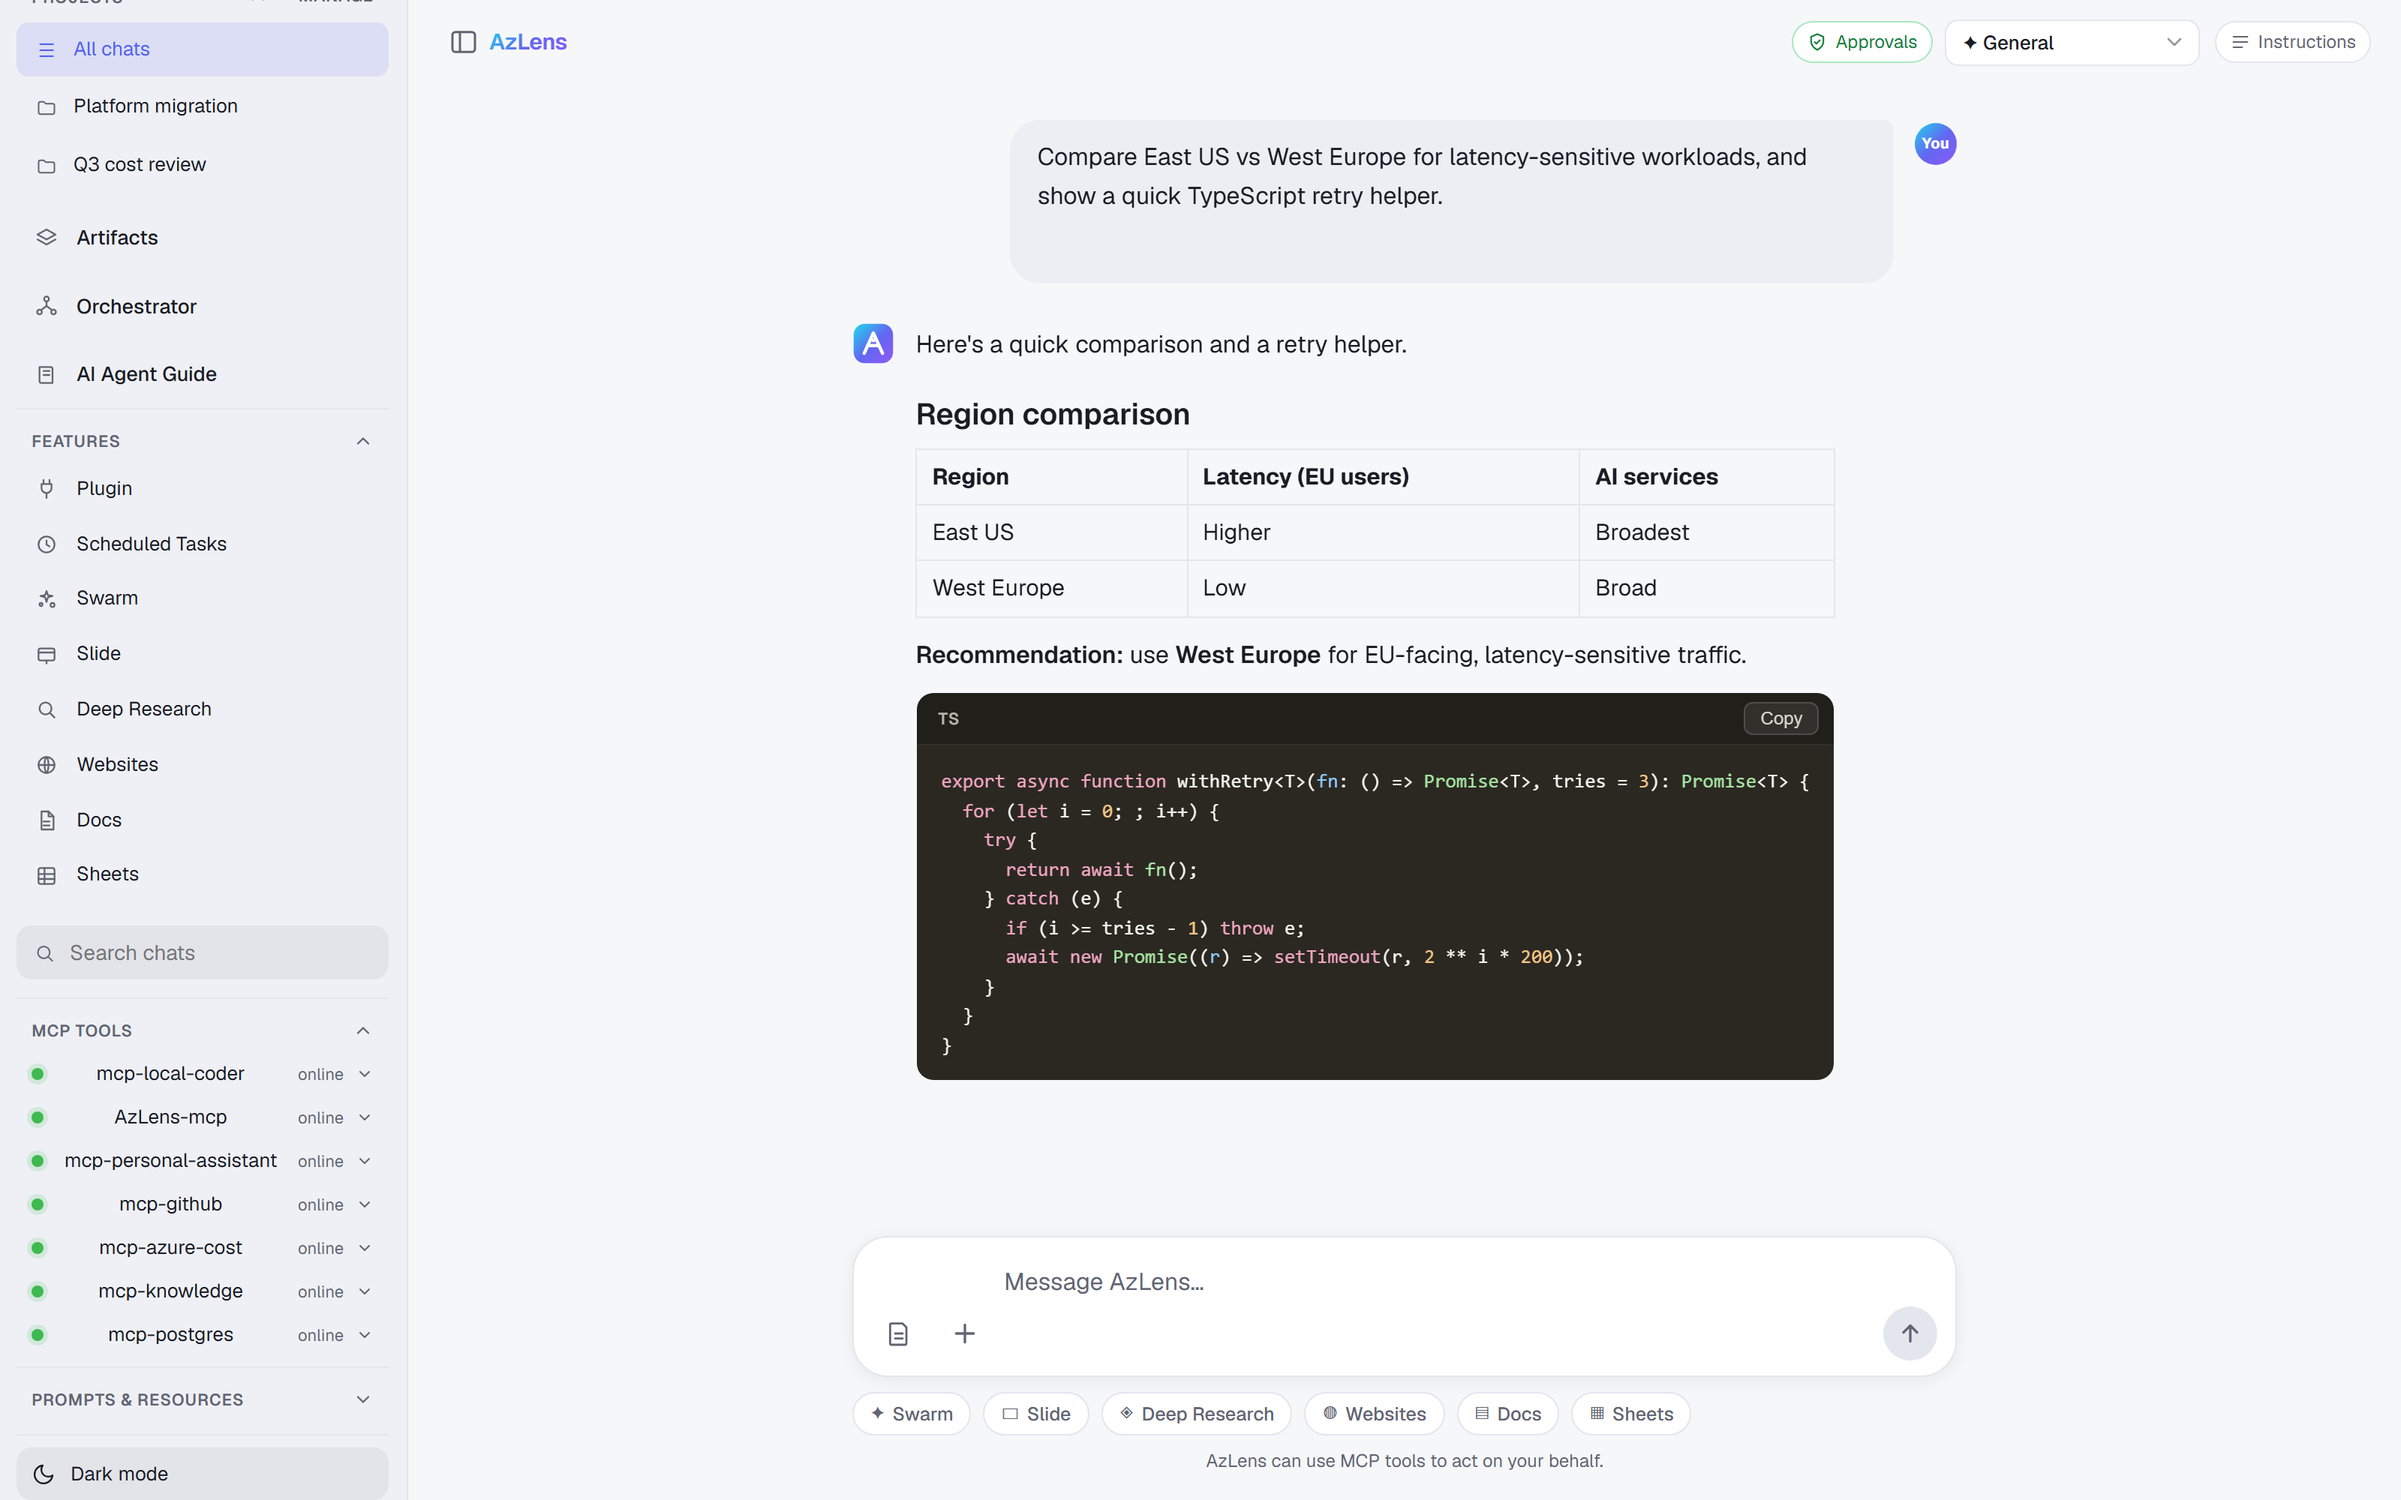
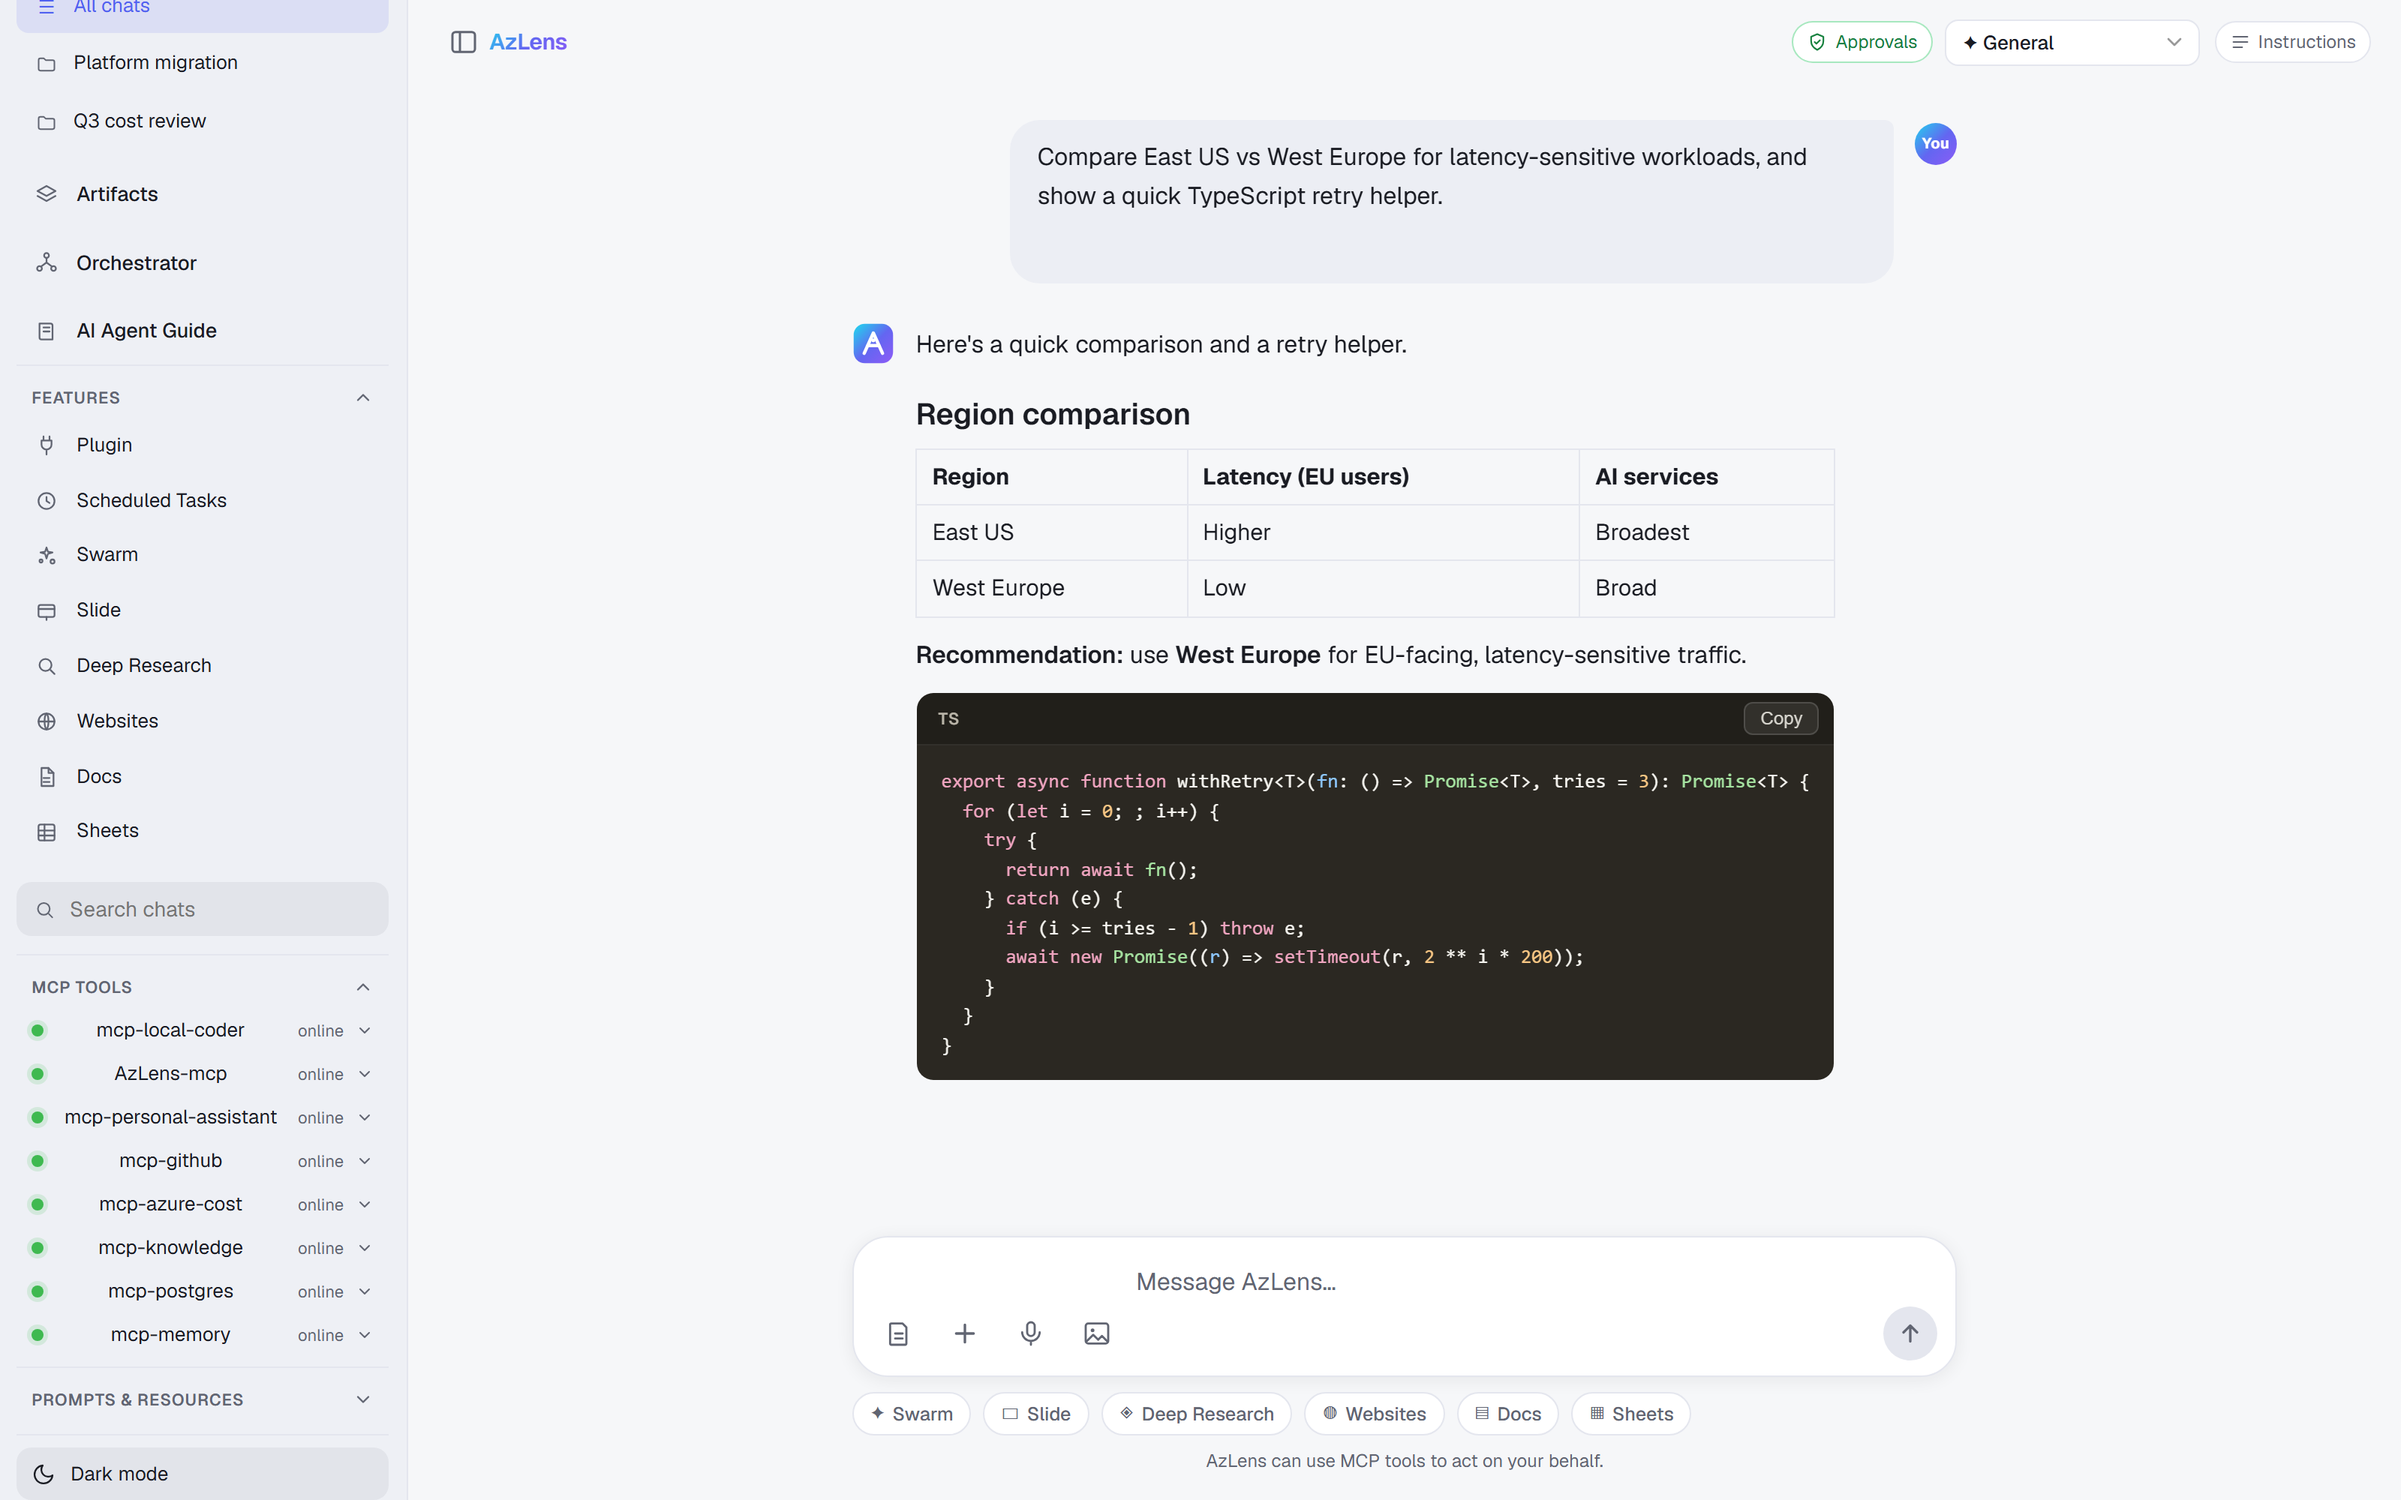
docs: capture composer (dictate + image-gen) screenshot; refresh shots + README highlights

Changed region(s): [[0.0, 0.0, 0.125, 0.899], [0.4062, 0.837, 0.5312, 0.868]]

diff --git a/README.md b/README.md
@@ -27,7 +27,7 @@ Each MCP server ships **two transports** from a single codebase:
 
 A modern, claude.ai-style front end with a collapsible sidebar, **New chat**, search, and multiple conversations you can switch between (persisted in the browser, with optional server-side sync to Azure Cosmos DB). Each conversation streams responses from your chosen model and can call the MCP tools.
 
-Highlights: **multi-provider models** (Azure OpenAI / OpenAI / Anthropic / local LM Studio-style servers) — cloud model lists are **auto-discovered** from each provider's `/models` API (with a curated fallback) — plus an **Auto router** that sends simple prompts to a cheap model and complex ones to a powerful model; a per-turn **usage & cost** footer (prices overridable via `PRICES_JSON`); switchable **agents** (General / Code / Azure / Personal Assistant / GitHub / FinOps / Research / Data), each scoped to the right MCP servers; **Projects** that group related chats with shared instructions and uploaded grounding files; an **Artifacts** panel that collects the code, docs, and tables an assistant produces (with preview, copy-all, and zip download); **per-conversation instructions** that refine the agent prompt; **syntax-highlighted code blocks** with a copy button; **tool approval** for mutating tools (including GitHub `create_issue` / `create_pull_request` and knowledge-base `ingest_documents`); **stop / regenerate / copy / edit-and-resend**; **dark mode**; an **MCP tools health panel** (live online/offline dots); chat **rename** + date grouping; markdown rendering; file/image attachments; and a **⌘K command palette**.
+Highlights: **multi-provider models** (Azure OpenAI / OpenAI / Anthropic / local LM Studio-style servers) — cloud model lists are **auto-discovered** from each provider's `/models` API (with a curated fallback) — plus an **Auto router** that sends simple prompts to a cheap model and complex ones to a powerful model; a per-turn **usage & cost** footer (prices overridable via `PRICES_JSON`); switchable **agents** (General / Code / Azure / Personal Assistant / GitHub / FinOps / Research / Data), each scoped to the right MCP servers; **Projects** that group related chats with shared instructions and uploaded grounding files; an **Artifacts** panel that collects the code, docs, and tables an assistant produces (with preview, copy-all, and zip download); **per-conversation instructions** that refine the agent prompt; **syntax-highlighted code blocks** with a copy button; **tool approval** for mutating tools (including GitHub `create_issue` / `create_pull_request` and knowledge-base `ingest_documents`); **stop / regenerate / copy / edit-and-resend**; **dark mode**; an **MCP tools health panel** (live online/offline dots); chat **rename** + date grouping; markdown rendering; file/image attachments; **voice** (dictate prompts and speak answers aloud); **image generation** from the prompt; **numbered source citations**; **👍/👎 response feedback**; a **multi-agent orchestrator** (planner → workers → synthesizer); a **session cost budget** banner; and a **⌘K command palette**.
 
 ![AzLens chat UI in dark mode: sidebar with a pinned chat and date-grouped chats, an MCP tools health panel, a model picker in the top bar, and a conversation with rendered markdown](docs/chat-ui-hero.png)
 
@@ -46,6 +46,10 @@ Collapsing the sidebar leaves a slim **icon rail** (new chat, search, theme):
 The **Artifacts** panel collects the code, docs, and tables an assistant produces — with preview, copy-all, and zip download:
 
 ![AzLens Artifacts panel showing a syntax-highlighted code artifact with copy and download actions](docs/chat-ui-artifacts.png)
+
+The composer supports **dictation** (speech-to-text mic) and one-click **image generation** from the prompt, alongside file/image attachments:
+
+![AzLens composer close-up showing the attach, dictate microphone, and generate-image buttons with a prompt typed in](docs/chat-ui-composer.png)
 
 <details>
 <summary>Light mode</summary>
